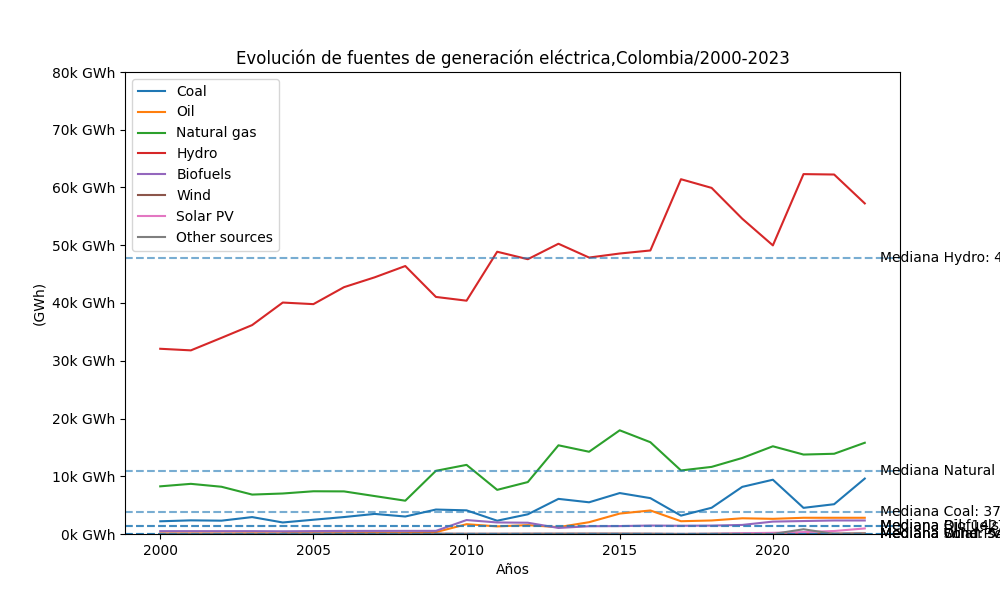
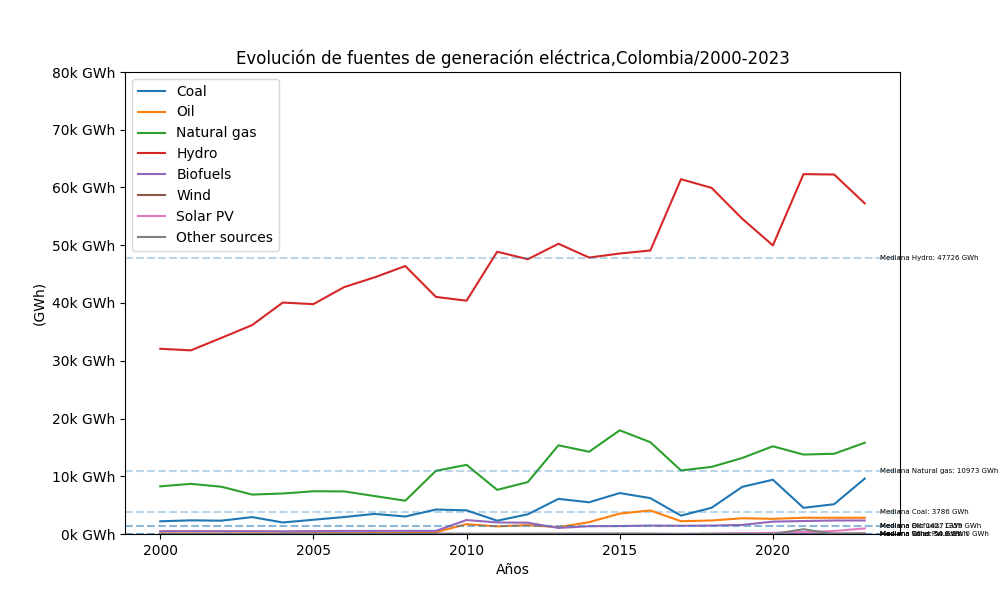
Actualizar

Changed region(s): [[0.124, 0.84, 1.0, 0.9], [0.868, 0.78, 1.0, 0.81], [0.868, 0.42, 1.0, 0.45]]

diff --git a/Estadistica3.py b/Estadistica3.py
@@ -7,7 +7,7 @@ app = Flask(__name__)
 
 @app.route('/')
 def show_charts():
-    return render_template('GraficosP.html')
+    return render_template('index.html')
 
 # Leer el archivo CSV
 df = pd.read_csv('Evolucion_Fuentes.csv')
@@ -26,12 +26,12 @@ for fuente in df['Fuentes'].unique():
 
 # Calcular y mostrar la mediana
     mediana = subset['Value'].median()
-    ax.axhline(y=mediana, linestyle='--', alpha=0.6)  # Añadir la línea de mediana en el gráfico
+    ax.axhline(y=mediana, linestyle='--', alpha=0.3)  # Añadir la línea de mediana en el gráfico
     # Añadir el texto de la mediana al lado de la línea
    
     ##Añadir el texto de la mediana con un pequeño desplazamiento vertical para evitar solapamientos
     ax.text(subset['Year'].iloc[-1] + 0.5, mediana , f'Mediana {fuente}: {int(mediana)} GWh', 
-             fontsize=10, verticalalignment='center')
+             fontsize=5, verticalalignment='center')
 
 
 
